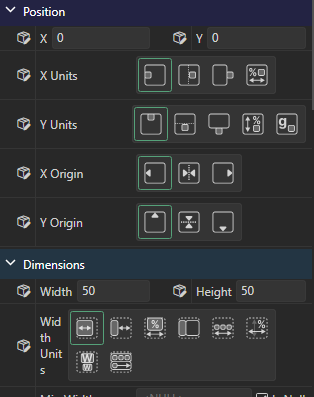
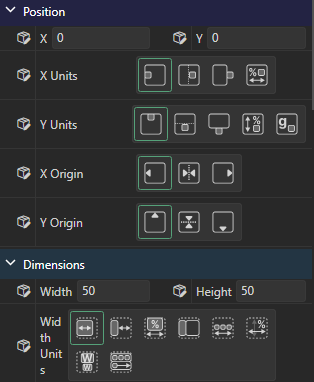
Fix Variables page figure text and crop

diff --git a/docs/gum-tool/variables/README.md b/docs/gum-tool/variables/README.md
@@ -22,9 +22,9 @@ Standard elements explicitly set their values on their Default state, so every v
 
 <figure><img src="../../.gitbook/assets/14_09_20_01.png" alt=""><figcaption><p>All values explicitly set on a Rectangle standard element</p></figcaption></figure>
 
-By contrast, if a Rectangle is dropped into a Screen or Component, this creates an instance. Most of its variables on the instance are not explicitly set, so they have no icon. For example, in the following image only `X` is set on the instance. `Y` and the unit variables inherit their values from the Rectangle standard element.
+By contrast, if a Rectangle is dropped into a Screen or Component, this creates an instance. Most of its variables on the instance are not explicitly set, so they have no icon. For example, in the following image `X` is the only Position variable that is set on the instance. `Y` and the unit variables inherit their values from the Rectangle standard element.
 
-<figure><img src="../../.gitbook/assets/14_09_20_02.png" alt=""><figcaption><p>Only X is set, so only X has the icon</p></figcaption></figure>
+<figure><img src="../../.gitbook/assets/14_09_20_02.png" alt=""><figcaption><p>Only X is set in Position, so only X has the icon there</p></figcaption></figure>
 
 If a variable is set, then its value is updated and the icon appears. Variables can be set by typing in values, clicking on icons, dragging over the labels, or changing the value in the editor tab.
 
